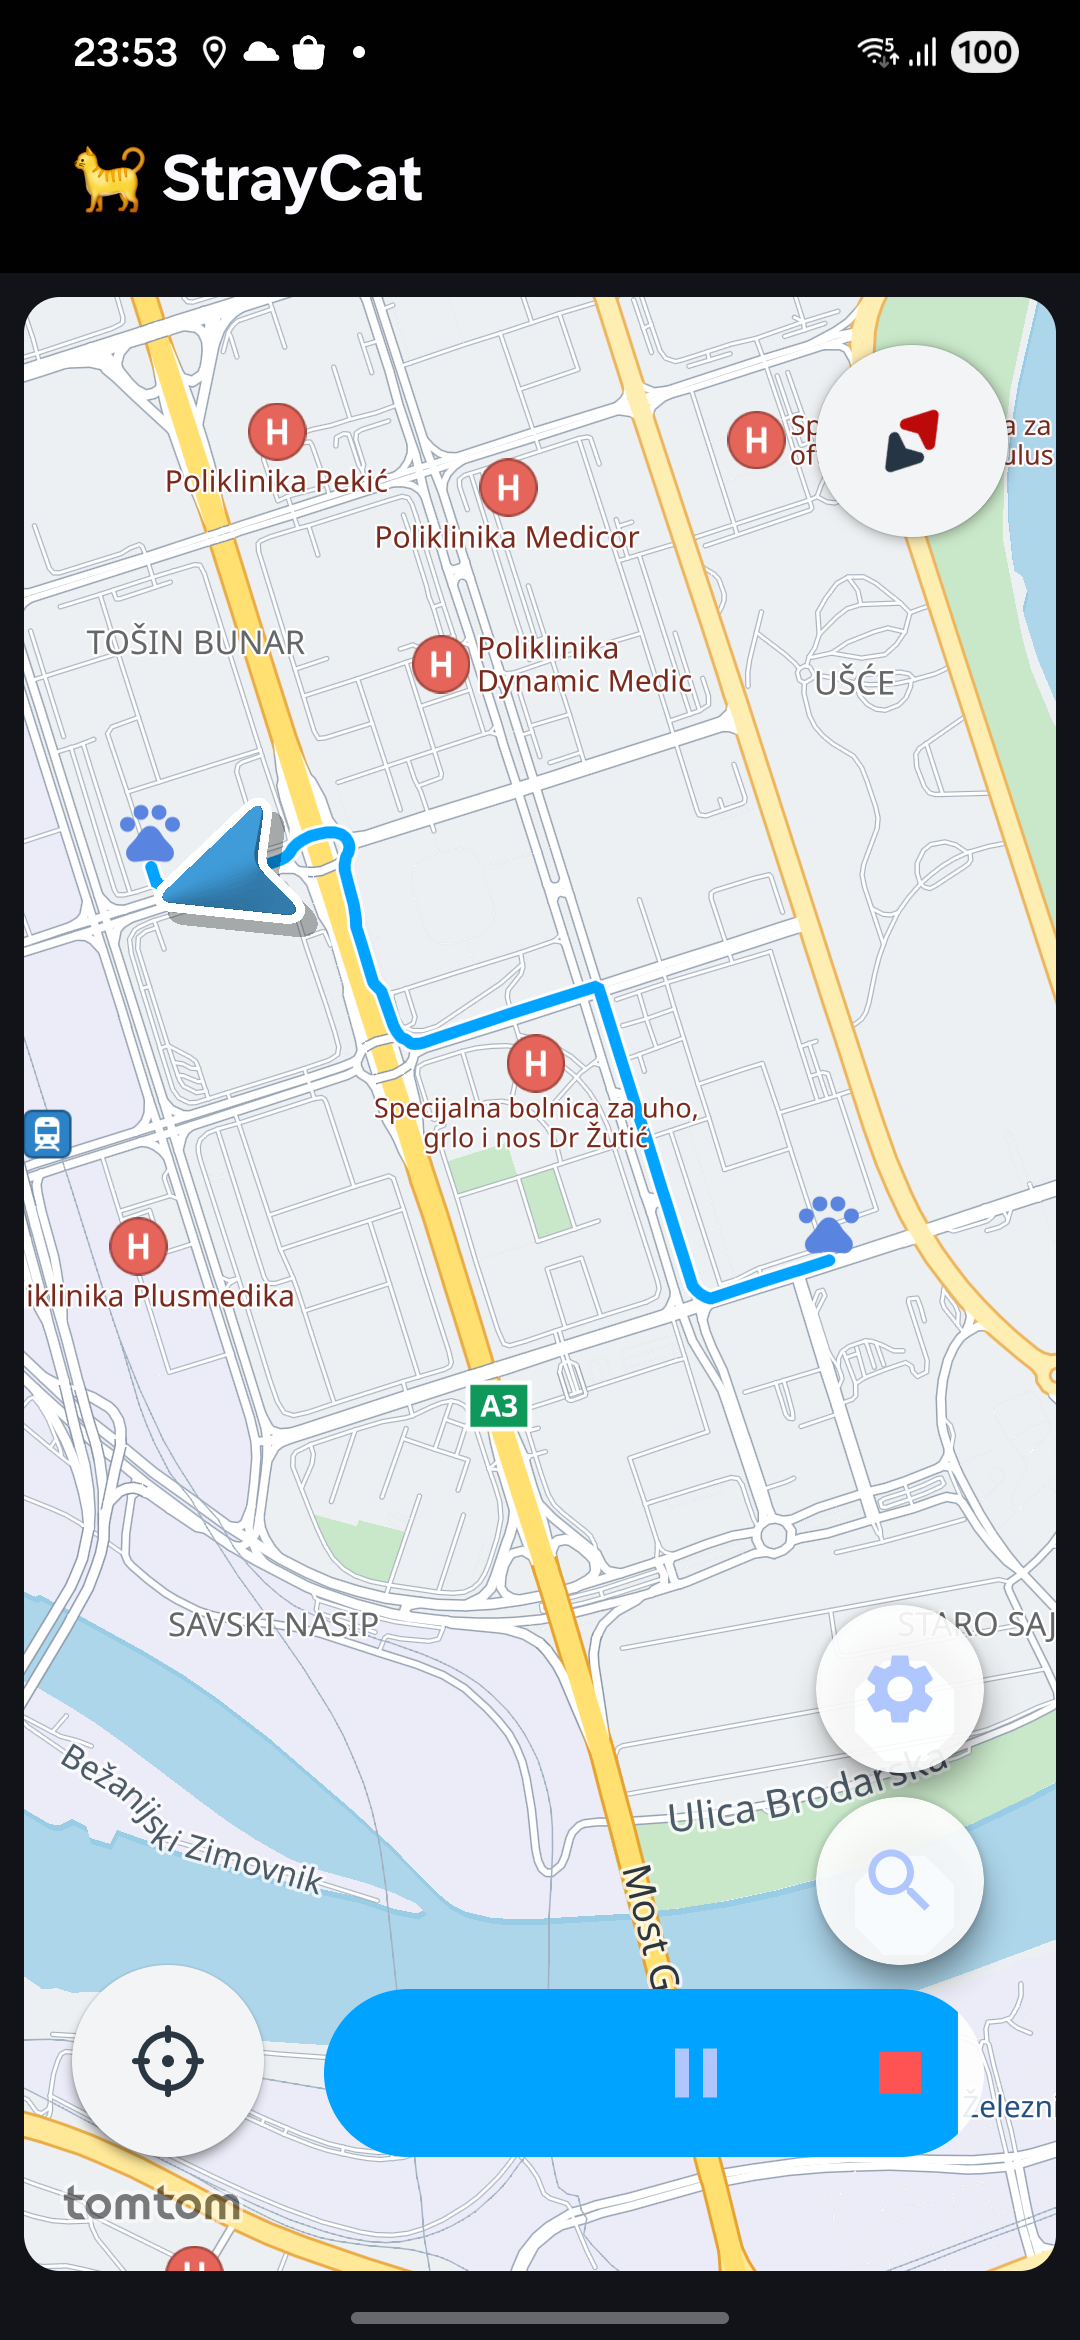
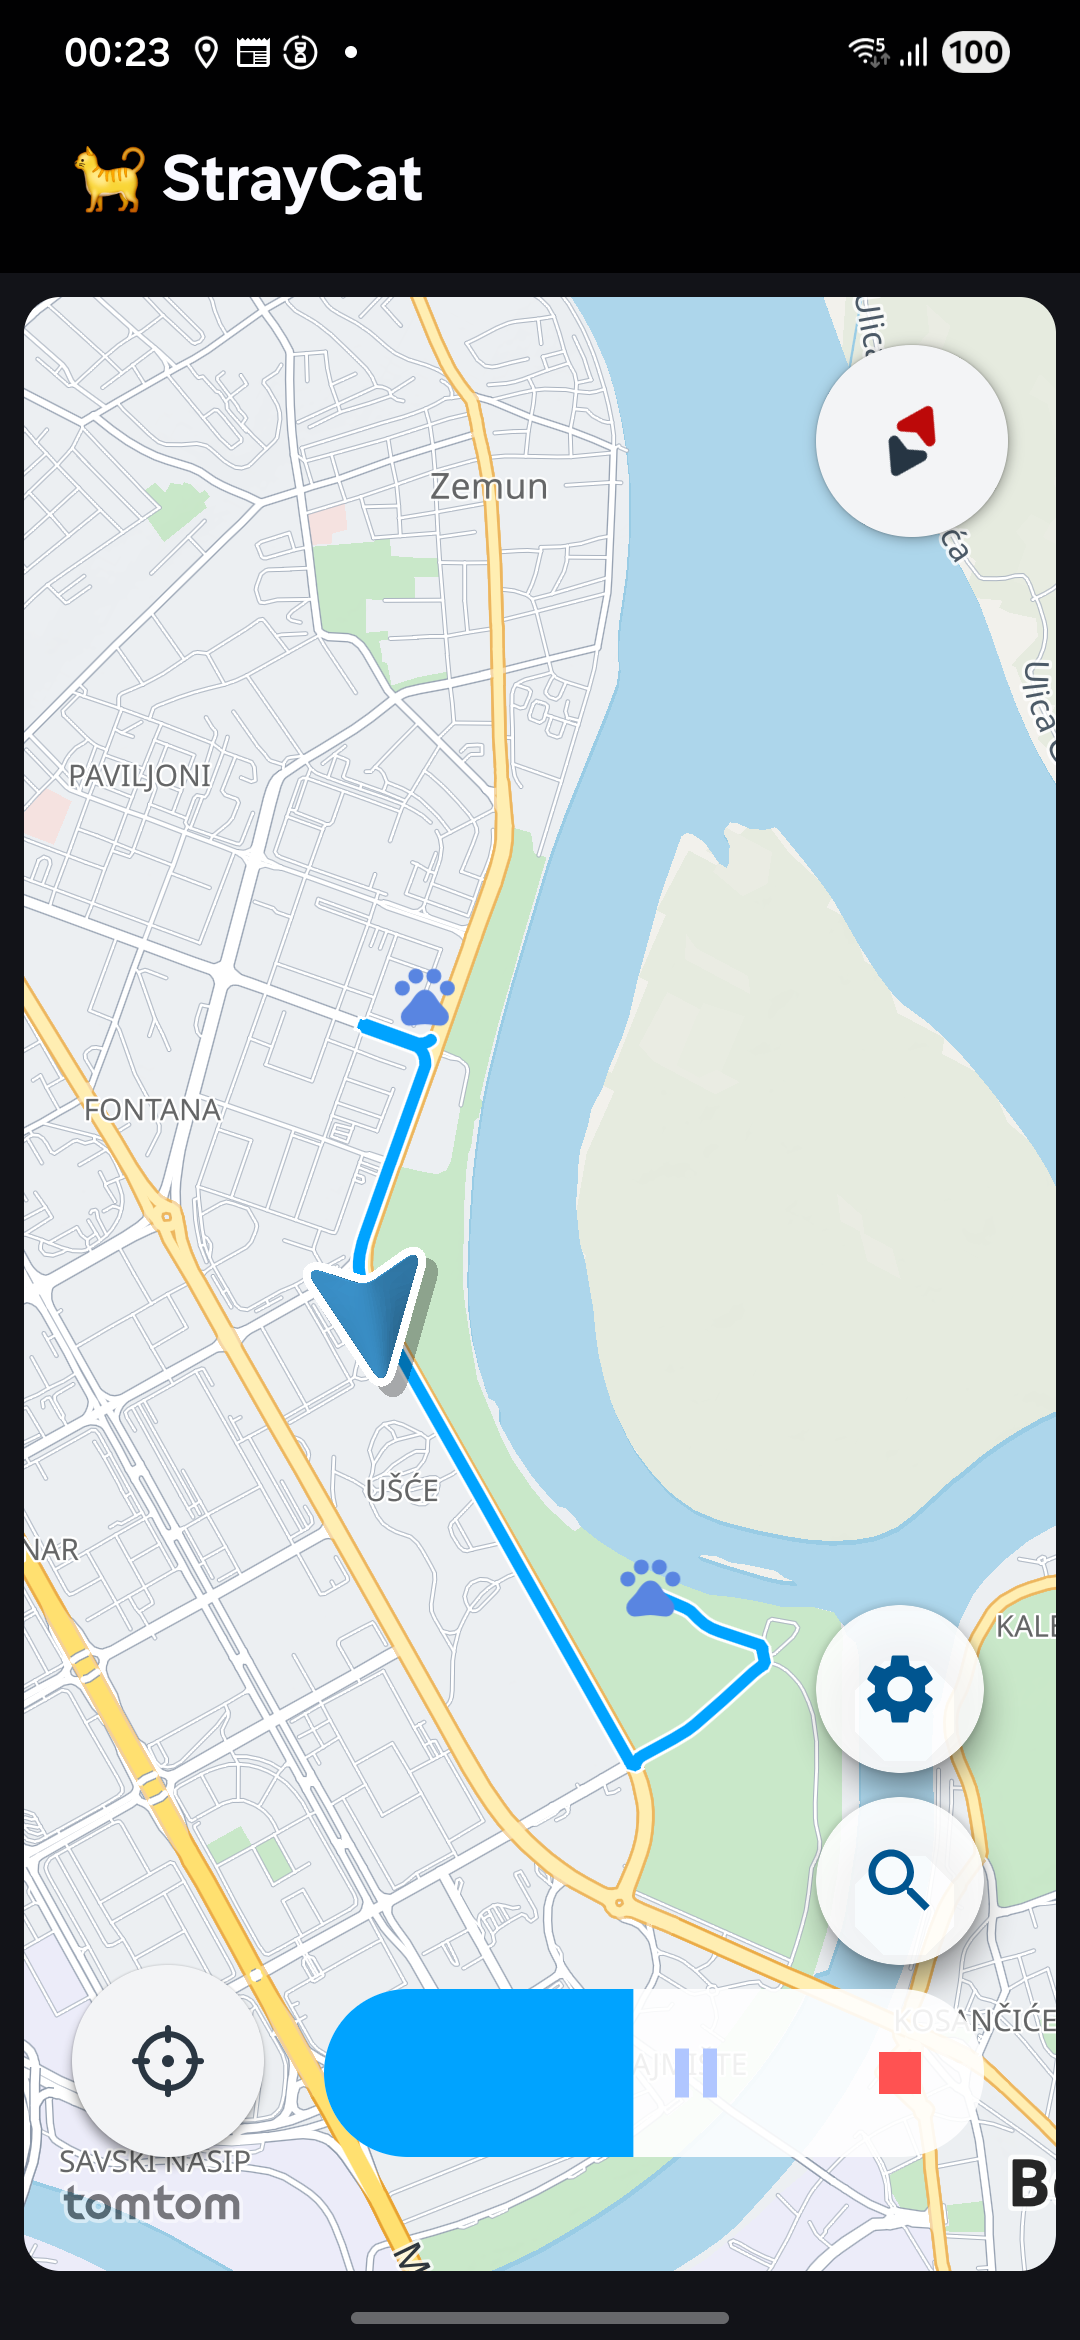
cleaning

diff --git a/app/src/main/java/com/lainovic/tomtom/straycat/domain/simulation/SimulationPointProcessor.kt b/app/src/main/java/com/lainovic/tomtom/straycat/domain/simulation/SimulationPointProcessor.kt
@@ -1,7 +1,10 @@
 package com.lainovic.tomtom.straycat.domain.simulation
 
 import com.lainovic.tomtom.straycat.domain.location.SimulationPoint
+import kotlinx.coroutines.CoroutineName
+import kotlinx.coroutines.CoroutineScope
 import kotlinx.coroutines.flow.StateFlow
+import kotlinx.coroutines.launch
 
 interface SimulationPointProcessor {
     fun process(point: SimulationPoint): SimulationPoint
@@ -9,23 +12,31 @@ interface SimulationPointProcessor {
 
 class SimpleSimulationPointProcessor(
     private val configuration: StateFlow<SimulationConfiguration>,
+    backgroundScope: CoroutineScope,
 ) : SimulationPointProcessor {
+    val processors = mutableListOf<SimulationPointProcessor>()
 
-    private val bearingProcessor = BearingProcessor()
+    init {
+        processors.add(BearingProcessor)
+        backgroundScope.launch(CoroutineName("SimulationPointProcessorConfigObserver")) {
+            configuration.collect { config ->
+                if (config.noiseLevelInMeters > 0 && processors.none { it is NoiseProcessor }) {
+                    processors.add(NoiseProcessor(config.noiseLevelInMeters))
+                } else if (config.noiseLevelInMeters == 0f) {
+                    processors.removeAll { it is NoiseProcessor }
+                }
+            }
+        }
+    }
 
     override fun process(point: SimulationPoint): SimulationPoint {
-        val config = configuration.value
-        var processedPoint = bearingProcessor.process(point)
-
-        if (config.noiseLevelInMeters > 0) {
-            processedPoint = NoiseProcessor(config.noiseLevelInMeters).process(processedPoint)
-        }
-
+        val processedPoint =
+            processors.fold(point) { pt, processor -> processor.process(pt) }
         return processedPoint
     }
 }
 
-class BearingProcessor : SimulationPointProcessor {
+object BearingProcessor : SimulationPointProcessor {
     override fun process(point: SimulationPoint): SimulationPoint {
         return point.copy(location = point.location.withBearing())
     }

diff --git a/app/src/main/java/com/lainovic/tomtom/straycat/domain/simulation/LocationSimulator.kt b/app/src/main/java/com/lainovic/tomtom/straycat/domain/simulation/LocationSimulator.kt
@@ -6,6 +6,7 @@ import com.lainovic.tomtom.straycat.domain.logging.Logger
 import com.lainovic.tomtom.straycat.infrastructure.analytics.InMemorySimulationEventBus
 import com.lainovic.tomtom.straycat.infrastructure.simulation.InMemorySimulationDataRepository
 import com.lainovic.tomtom.straycat.shared.toLocation
+import kotlinx.coroutines.CoroutineName
 import kotlinx.coroutines.CoroutineScope
 import kotlinx.coroutines.ExperimentalCoroutinesApi
 import kotlinx.coroutines.Job
@@ -13,9 +14,8 @@ import kotlinx.coroutines.delay
 import kotlinx.coroutines.flow.asFlow
 import kotlinx.coroutines.flow.catch
 import kotlinx.coroutines.flow.drop
-import kotlinx.coroutines.flow.flatMapLatest
-import kotlinx.coroutines.flow.flow
 import kotlinx.coroutines.flow.map
+import kotlinx.coroutines.flow.mapLatest
 import kotlinx.coroutines.flow.onCompletion
 import kotlinx.coroutines.flow.onEach
 import kotlinx.coroutines.flow.withIndex
@@ -36,7 +36,8 @@ class LocationSimulator(
         configManager.configuration,
     ),
     private val simulationPointProcessor: SimulationPointProcessor = SimpleSimulationPointProcessor(
-        configManager.configuration,
+        configuration = configManager.configuration,
+        backgroundScope = backgroundScope,
     ),
     private val dataRepository: SimulationDataRepository = InMemorySimulationDataRepository,
     private val eventBus: SimulationEventBus = InMemorySimulationEventBus,
@@ -52,26 +53,13 @@ class LocationSimulator(
     private var collectionJob: Job? = null
 
     init {
-        backgroundScope.launch {
+        backgroundScope.launch(CoroutineName("LocationSimulatorConfigObserver")) {
             [email redacted]
                 .drop(1)
                 .collect { newConfig ->
                     logger.d(TAG, "Configuration changed: $newConfig")
-                    if (collectionJob?.isActive == true && shouldRestart(newConfig)) {
-                        logger.i(TAG, "Restarting simulation due to structural configuration change")
-                        stop()
-                        start()
-                    }
                 }
         }
-    }
-
-    private fun shouldRestart(newConfig: SimulationConfiguration): Boolean {
-        // Only restart if loopIndefinitely or useRealisticTiming changed.
-        // Other parameters (speed, noise, delay) are handled live by processors and calculators.
-        val currentConfig = configManager.configuration.value
-        return currentConfig.loopIndefinitely != newConfig.loopIndefinitely ||
-                currentConfig.useRealisticTiming != newConfig.useRealisticTiming
     }
 
     fun start() {
@@ -131,7 +119,7 @@ class LocationSimulator(
             .onEach { (idx, _) -> updateProgress(idx + 1) }
             .onEach { waitIfPaused() }
             .onEach { (idx, point) -> delayIfNeeded(idx, point) }
-            .flatMapLatest { (_, point) -> flow { emit(process(point)) } }
+            .mapLatest { (_, point) -> process(point) }
             .map { it.toLocation(simulationStartTime) }
 
     private suspend fun delayIfNeeded(

diff --git a/app/src/main/java/com/lainovic/tomtom/straycat/infrastructure/service/SimulationService.kt b/app/src/main/java/com/lainovic/tomtom/straycat/infrastructure/service/SimulationService.kt
@@ -34,7 +34,7 @@ class SimulationService : Service() {
     private val simulator by lazy { createSimulator() }
     private val backgroundScope = CoroutineScope(
         Dispatchers.Default +
-                CoroutineName("LocationPlayerServiceScope")
+                CoroutineName("SimulationServiceBackgroundScope")
     )
 
     override fun onBind(intent: Intent?): IBinder? {
@@ -54,17 +54,19 @@ class SimulationService : Service() {
         intent: Intent?,
         flags: Int, startId: Int
     ): Int {
+        if (intent?.action == null) {
+            AndroidLogger.w(TAG, "Received onStartCommand with null action")
+            return START_STICKY
+        }
+
         AndroidLogger.d(TAG, "onStartCommand() called")
         AndroidLogger.d(TAG, "  intent: $intent")
         AndroidLogger.d(TAG, "  action: ${intent?.action}")
         AndroidLogger.d(TAG, "  flags: $flags, startId: $startId")
 
+        val action = intent.action
         try {
-            val action = requireNotNull(intent?.action) {
-                "Intent action is null"
-            }
             AndroidLogger.d(TAG, "Processing action: $action")
-
             when (action) {
                 ACTION_START -> {
                     AndroidLogger.d(TAG, "ACTION_START: Starting simulation")
@@ -113,7 +115,7 @@ class SimulationService : Service() {
             onTick = this::onTick,
             onComplete = { AndroidLogger.i(TAG, "Simulation completed") },
             backgroundScope = CoroutineScope(
-                backgroundScope.coroutineContext + handler + CoroutineName("LocationSimulatorScope")
+                backgroundScope.coroutineContext + handler
             ),
             configManager = SimulationConfigurationManagerSingleton,
             logger = AndroidLogger,

diff --git a/app/src/main/java/com/lainovic/tomtom/straycat/ui/components/PlayButton.kt b/app/src/main/java/com/lainovic/tomtom/straycat/ui/components/PlayButton.kt
@@ -34,7 +34,7 @@ fun PlayButton(
             shape = CircleShape,
             colors = IconButtonDefaults.filledIconButtonColors(
                 containerColor = AppColors.SurfaceTranslucent,
-                contentColor = MaterialTheme.colorScheme.primary
+                contentColor = AppColors.PrimaryDarker,
             ),
             modifier = Modifier.size(iconSize)
         ) {

diff --git a/app/src/main/java/com/lainovic/tomtom/straycat/ui/components/SearchButton.kt b/app/src/main/java/com/lainovic/tomtom/straycat/ui/components/SearchButton.kt
@@ -35,7 +35,7 @@ fun SearchButton(
             shape = CircleShape,
             colors = IconButtonDefaults.filledIconButtonColors(
                 containerColor = AppColors.SurfaceTranslucent,
-                contentColor = MaterialTheme.colorScheme.primary
+                contentColor = AppColors.PrimaryDarker,
             ),
             modifier = Modifier.size(iconSize)
         ) {

diff --git a/app/src/main/java/com/lainovic/tomtom/straycat/ui/components/SettingsButton.kt b/app/src/main/java/com/lainovic/tomtom/straycat/ui/components/SettingsButton.kt
@@ -34,7 +34,7 @@ fun SettingsButton(
             shape = CircleShape,
             colors = IconButtonDefaults.filledIconButtonColors(
                 containerColor = AppColors.SurfaceTranslucent,
-                contentColor = MaterialTheme.colorScheme.primary
+                contentColor = AppColors.PrimaryDarker,
             ),
             modifier = Modifier.size(iconSize)
         ) {

diff --git a/README.md b/README.md
@@ -33,33 +33,17 @@ Perfect for testing location-based features and route simulations.
 - 🔄 **Map display** - via TomTom Maps SDK
 - 🔍 **Search Locations** - Find points of interest using Google Places Search SDK
 
-#### GPS Configuration
-- **Minimum Time Interval** - Minimum time between location updates
-- **Minimum Distance** - Minimum distance for location updates
-
-#### Simulation Configuration (TODO)
+#### Simulation Configuration
 - **Speed Multiplier** - Control playback speed (0.1x - 10x)
-- **Loop Mode** - Continuously replay routes
+or
+- **Delay** - Add a delay between location updates (in seconds)
+- **Loop Mode** - Continuously replay the simulation
 - **Realistic Timing** - Use actual route timing vs fixed intervals
-- **Interpolation** - Smooth transitions between points
-- **Noise Level** - Add GPS signal variance (meters)
-
-## Tech Stack
-
-- **Language:** Kotlin 2.0.21
-- **UI:** Jetpack Compose
-- **Maps:** TomTom Maps SDK
-- **Routing:** TomTom Routing SDK
-- **Places Search:** Google Places Search SDK
-- **Async:** Kotlin Coroutines & Flow
-- **Architecture:** MVVM + Clean Architecture adhering to DDD principles
-- **Min SDK:** Android 8.0 (API 26)
+- **Noise Level** - Add GPS signal variance (in meters)
 
 ## Getting Started
 
 ### Prerequisites
-
-- Android Studio Hedgehog or later
 - Android device or emulator with API 26+
 - Location permissions enabled
 
@@ -84,24 +68,22 @@ To begin simulation, long-press on the map to set origin and destination points,
 
 To clear and start over, long-press on the map again after a route has been generated.
 
-## Documentation
-
 ## Roadmap
 
-### v1.0 (Current)
+### v1.2 (Current)
 - ✅ Route simulation with replay
 - ✅ GPS location tracking
 - ✅ Pause/resume functionality
 - ✅ Speed control and looping
 - ✅ Error handling and recovery
 - ✅ Start with documentation
+- ✅ Speed multiplier UI
+- ✅ Loop mode toggle
+- ✅ Realistic timing option
+- ✅ GPS noise injection
 
 ### TODO
-- 🚧 Speed multiplier UI
-- 🚧 Loop mode toggle
-- 🚧 Realistic timing option
-- 🚧 GPS noise injection
-- 🚧 Route interpolation (maybe)
+
 - 🚧 More elaborate testing strategy
 - 🚧 Enhanced UI controls
 - 🚧 Comprehensive documentation